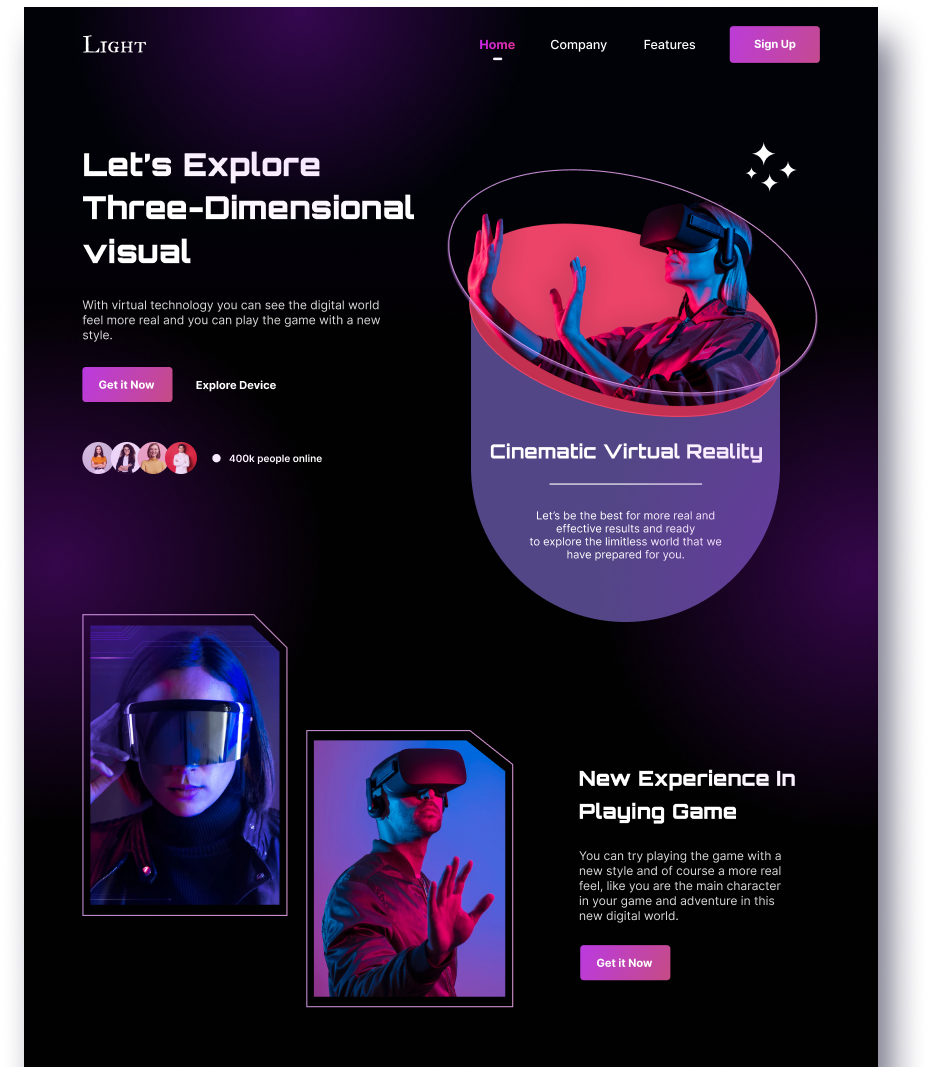
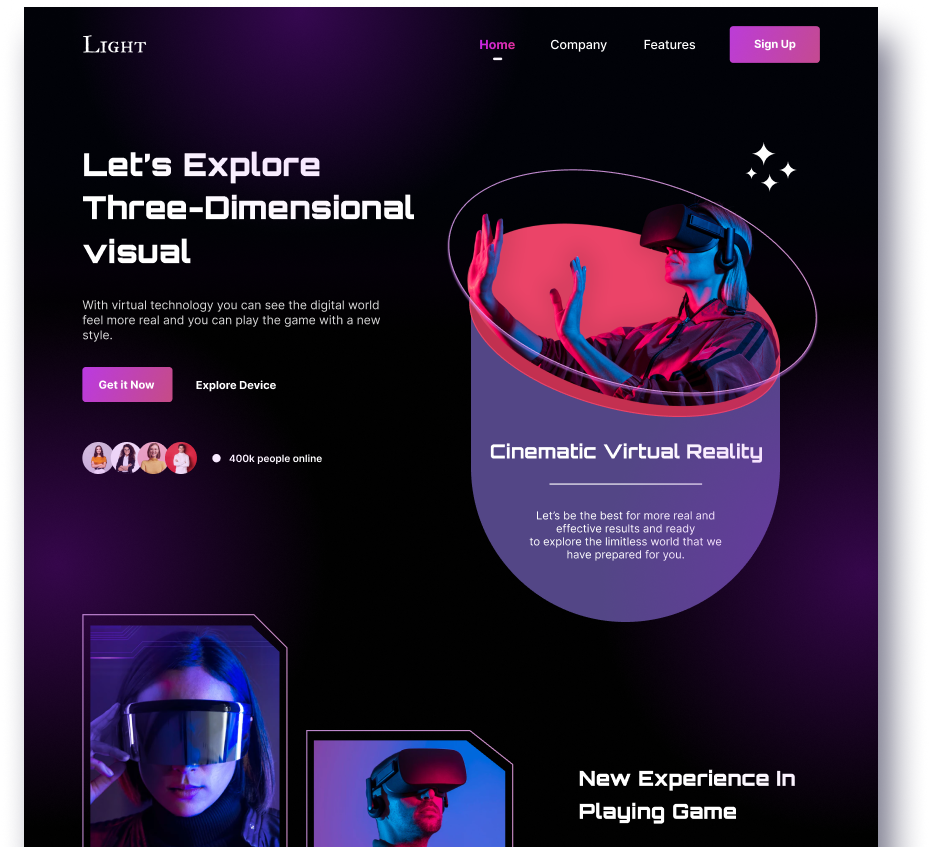
beta version upgrade

diff --git a/src/pages/resume.jsx b/src/pages/resume.jsx
@@ -182,11 +182,11 @@ const ResumePage = () => {
                                                         </div>
 
                                                         <div>
-                                                            <Text as="h2" style={{ color: theme.colors.success.main(3) }} className="text-[20px] md:text-[22px] font-normal font-primary mb-2.5 lg:text-[23px]">
+                                                            <Text as="h2" style={{ color: `hsla(180, 78%, 50%, 1)` }} className="text-[20px] md:text-[22px] font-normal font-primary mb-2.5 lg:text-[23px]">
                                                                 {element.title}
                                                             </Text>
 
-                                                            <Text as="a" target="_blank" className=" font-thin font-secondary text-[17px]" style={{ color: theme.colors.secondary.main(1), }} href={element.href}>
+                                                            <Text as="a" target="_blank" className=" font-thin font-secondary text-[17px]" style={{ color: theme.colors.primary.main(2) }} href={element.href}>
                                                                 {element.linkText}
                                                                 <svg className=" ml-1 mb-0.5 size-6 inline-block stroke-white" xmlns="http://www.w3.org/2000/svg" fill="none" viewBox="0 0 24 24" strokeWidth="1.5" stroke="currentColor" >
                                                                     <path strokeLinecap="round" strokeLinejoin="round" d="M13.19 8.688a4.5 4.5 0 0 1 1.242 7.244l-4.5 4.5a4.5 4.5 0 0 1-6.364-6.364l1.757-1.757m13.35-.622 1.757-1.757a4.5 4.5 0 0 0-6.364-6.364l-4.5 4.5a4.5 4.5 0 0 0 1.242 7.244" />
@@ -258,7 +258,7 @@ const ResumePage = () => {
                                                         </div>
 
                                                         <div className="font-secondary ">
-                                                            <Text as="h2" style={{ color: `hsl(60, 75%, 65%)` }} className="text-[18px] font-primary tracking-wide font-normal mb-2 md:text-[20px]">
+                                                            <Text as="h2" style={{ color: `hsl(180, 75%, 65%)` }} className="text-[18px] font-primary tracking-wide font-normal mb-2 md:text-[20px]">
                                                                 {element.title}
                                                             </Text>
 
@@ -290,7 +290,7 @@ const ResumePage = () => {
                             <AnimatorUIListener>
                                 <BleepsOnAnimator continuous transitions={{ entering: 'type', }} />
                                 <HeadingComponent title={LanguageData.title} active={active} />
-                                <blockquote className="mt-10 mb-[200px]" data-arwes-global-palette='info'>
+                                <blockquote className="mt-10 mb-[200px]" data-arwes-global-palette='primary'>
                                     <ul>
                                         {LanguageData.description.map((element, idx) =>
                                             <li key={idx}>
@@ -311,7 +311,7 @@ const ResumePage = () => {
                         <Animator>
                             <AnimatorUIListener>
                                 <HeadingComponent title={InterestData.title} active={active} />
-                                <blockquote className="my-10" data-arwes-global-palette='info'>
+                                <blockquote className="my-10" data-arwes-global-palette='primary'>
                                     <ul>
                                         {InterestData.description.map((element, idx) =>
                                             <li key={idx}>

diff --git a/src/components/footer.jsx b/src/components/footer.jsx
@@ -1,4 +1,4 @@
-import { Animated, Animator, BleepsOnAnimator, FrameSVGKranox, FrameSVGLines, FrameSVGOctagon, Text, aa, aaOpacity, useBleeps, useFrameSVGAssemblingAnimation } from "@arwes/react";
+import { Animated, Animator, BleepsOnAnimator, FrameSVGKranox, FrameSVGLines, FrameSVGOctagon, Text, aaOpacity, useFrameSVGAssemblingAnimation } from "@arwes/react";
 import { useRef, useState } from "react";
 import { kranoxStyle, linesStyle, octagonStyle, theme } from "../utlis/settings";
 import { socialLinksData } from "../data";
@@ -90,10 +90,20 @@ const Footer = ({ active }) => {
     }
 
 
+
+
+
+
+
     return (
-        <Animated animated={[aaOpacity()]} style={{
-            padding: theme.space([15, 8]),
-        }} className="relative contrast-125 brightness-95 lines w-[100%]">
+        <Animated
+            animated={[aaOpacity()]}
+            style={{
+                padding: theme.space([15, 8]),
+                position: 'relative',
+            }}
+            className="relative contrast-125 brightness-95 lines w-[100%]"
+        >
             <style>{linesStyle}</style>
 
 
@@ -152,11 +162,24 @@ const Footer = ({ active }) => {
                                     smallLineLength={12}
                                     largeLineLength={48}
                                 />
+
+
+
                                 <Animator active={active}>
-                                    <Text as="p" style={{ color: `hsla(180,85%,55%,1)` }} className="font-primary font-medium  uppercase"  >
-                                        Connect
-                                    </Text>
+
+                                    {
+                                        loading ?
+                                            <svg style={{ stroke: theme.colors.primary.main(3) }} className="size-6  animate-sine-wave  transition-all " xmlns="http://www.w3.org/2000/svg" fill="none" viewBox="0 0 24 24" strokeWidth="1.5" stroke="currentColor">
+                                                <path strokeLinecap="round" strokeLinejoin="round" d="M15.59 14.37a6 6 0 0 1-5.84 7.38v-4.8m5.84-2.58a14.98 14.98 0 0 0 6.16-12.12A14.98 14.98 0 0 0 9.631 8.41m5.96 5.96a14.926 14.926 0 0 1-5.841 2.58m-.119-8.54a6 6 0 0 0-7.381 5.84h4.8m2.581-5.84a14.927 14.927 0 0 0-2.58 5.84m2.699 2.7c-.103.021-.207.041-.311.06a15.09 15.09 0 0 1-2.448-2.448 14.9 14.9 0 0 1 .06-.312m-2.24 2.39a4.493 4.493 0 0 0-1.757 4.306 4.493 4.493 0 0 0 4.306-1.758M16.5 9a1.5 1.5 0 1 1-3 0 1.5 1.5 0 0 1 3 0Z" />
+                                            </svg>
+                                            :
+                                            <Text as="p" style={{ color: `hsla(180,85%,55%,1)` }} className="font-primary font-medium  uppercase"  >
+                                                Connect
+                                            </Text>
+
+                                    }
                                 </Animator>
+
 
                             </button>
                             <Text className="mt-2" as="p">{message}</Text>
@@ -171,6 +194,9 @@ const Footer = ({ active }) => {
                     </div>
                 </form>
             </Animator>
+
+
+
         </Animated>
     );
 };

diff --git a/src/App.jsx b/src/App.jsx
@@ -9,6 +9,7 @@ import ProjectPage from './pages/projects';
 import ResumePage from './pages/resume';
 
 import Background from './components/background';
+import Lighter from './components/illuminator';
 
 
 const isProd = import.meta.env.PROD
@@ -34,13 +35,18 @@ const routes = isProd ? createHashRouter(routeItem) : createBrowserRouter(routeI
 
 const App = () => (
   <>
-    <Global styles={{ ...stylesBaseline, }} />
+    <Global styles={{ ...stylesBaseline, 'a:hover': { color: 'hsla(180,75%,50%,1)' }, '.underline:hover': { color: 'hsla(180,75%,50%,1)' }, }} />
     <AnimatorGeneralProvider duration={{ enter: 1, exit: 1, stagger: 0.2 }}>
       <BleepsProvider  {...soundSettings}>
         <Animator active={true} combine manager='stagger'>
 
           <Animator>
             <Background theme={theme} />
+          </Animator>
+
+
+          <Animator>
+            <Lighter />
           </Animator>
 
 

diff --git a/tailwind.config.js b/tailwind.config.js
@@ -8,13 +8,24 @@ export default {
     extend: {
       backgroundImage: {
         'small': "url('/assets/bg-small.png')",
-        'big': "url('/assets/bg-big.png')",
+        'big': "url('/assets/background-large.jpg')",
         'profile': "url('/assets/profile.png')",
       },
       fontFamily: {
         'primary': ['Orbitron'],
         'secondary': ['Electrolize'],
-      }
+      },
+      keyframes: {
+        'sine-wave': {
+          '0%': { transform: 'translateX(10px) rotate(45deg)', stroke: 'hsl(60, 75%, 50%)', opacity: 1, },
+          '50%': { transform: 'translateX(130px) rotate(45deg)', opacity: 0 },
+
+          '100%': { transform: 'translateX(160px) rotate(45deg)', opacity: 0 },
+        },
+      },
+      animation: {
+        'sine-wave': 'sine-wave 1.3s  infinite cubic-bezier(0.45, 0, 0.55, 1)',
+      },
     },
   },
   plugins: [],

diff --git a/src/components/nefrax-frame.jsx b/src/components/nefrax-frame.jsx
@@ -19,11 +19,11 @@ const NefraxFrame = ({ children, squareSize, padding }) => {
             <style>{`
                         .Nefrex .arwes-react-frames-framesvgnefrex [data-name=bg] {
                             color: ${theme.colors.primary.deco(5)};
-                            filter: drop-shadow(0 0 4px hsl(60, 75%, 10%))
+                            filter: drop-shadow(0 0 4px hsl(180, 75%, 10%))
                         }
                         .Nefrex .arwes-react-frames-framesvgnefrex [data-name=line] {
-                            color: hsl(60, 75%, 50%);
-                            filter: drop-shadow(0 0 4px hsl(60, 75%, 50%))
+                            color: hsl(180, 75%, 50%);
+                            filter: drop-shadow(0 0 4px hsl(180, 75%, 50%))
                         }
                     `}</style>
 

diff --git a/src/components/background.jsx b/src/components/background.jsx
@@ -4,13 +4,8 @@ import BgPuffs from './puffs';
 const Background = ({ theme }) => {
     return (
         <div
-            className='bg-big fixed contrast-[112%]   md:bg-big bg-center bg-cover bg-no-repeat w-full  h-full'
+            className='bg-big fixed bg-center bg-cover bg-no-repeat w-full  h-full'
         >
-            <div
-                style={{ background: 'radial-gradient(circle, rgba(0, 0, 0, 0), rgba(0, 0, 0, 0.7))' }}
-                className="fixed inset-0 opacity-40">
-
-            </div>
 
             <MovingLines lineColor={theme.colors.primary.deco(2)} lineWidth={3} />
             <BgPuffs />

diff --git a/src/components/illuminator.jsx b/src/components/illuminator.jsx
@@ -1,0 +1,24 @@
+import { createFrameOctagonClip } from '@arwes/frames';
+import { Illuminator } from '@arwes/react-frames';
+
+const Lighter = () => {
+    return (
+        <div
+            style={{
+                position: 'absolute',
+                width: '100%',
+                height: '100%',
+                overflow: 'clip',
+                clipPath: createFrameOctagonClip({ squareSize: 50 })
+            }}
+        >
+            <Illuminator
+                color='hsl(180 50% 50% / 20%)'
+                size={300}
+            />
+        </div>
+    );
+};
+
+export default Lighter;
+

diff --git a/src/components/card.jsx b/src/components/card.jsx
@@ -30,8 +30,8 @@ const Card = ({ theme, children }) => {
                     color: ${theme.colors.primary.deco(3)};
                     }
                     .card .arwes-react-frames-framesvg [data-name=line] {
-                        color: hsl(60, 75%, 50%);
-                        filter: drop-shadow(0 0 4px hsl(60, 75%, 50%))                    }
+                        color: hsl(180, 75%, 50%);
+                        filter: drop-shadow(0 0 4px hsl(180, 75%, 50%))                    }
                 `}
                 </style>
 

diff --git a/src/index.css b/src/index.css
@@ -4,10 +4,10 @@
 
 :root, html, body{
   height: 100%;
-  scrollbar-color: hsla(60,75%,50%,1) transparent !important;
+  scrollbar-color: hsla(191,78%,50%,1) transparent !important;
 }
 
 
 ::-webkit-scrollbar-thumb {
-  background-color: hsl(60, 75%, 50%) transparent !important;
+  background-color: hsl(190, 78%, 50%) transparent !important;
 }

diff --git a/src/pages/projects.jsx b/src/pages/projects.jsx
@@ -9,6 +9,7 @@ import Footer from "../components/footer";
 import { octagonStyle, theme } from "../utlis/settings";
 import useScreenWidth from "../hook/use-screen-width";
 
+
 const ProjectPage = () => {
     const svgRef = useRef(null);
     const { onRender } = useFrameSVGAssemblingAnimation(svgRef);

diff --git a/src/data/index.jsx b/src/data/index.jsx
@@ -65,8 +65,8 @@ export const resumeData = {
 
 
             {
-                url: "./assets/flutter.svg",
-                name: "Flutter ",
+                url: "./assets/tailwind.svg",
+                name: "Tailwindcss ",
             },
 
             {

diff --git a/src/utlis/settings.jsx b/src/utlis/settings.jsx
@@ -33,9 +33,6 @@ export const underlineStyle = `
     color: ${theme.colors.primary.deco(2)};
 
 },
-.underline .arwes-react-frames-framesvgunderline [data-name=line] {
-    color: hsl(60, 75%, 50%);
-}
 `
 
 
